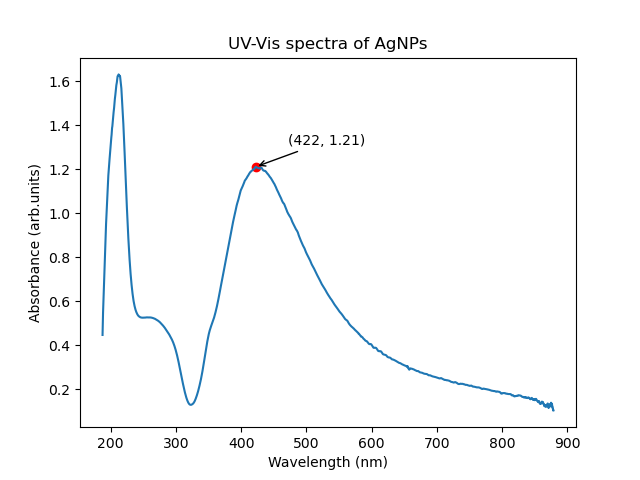
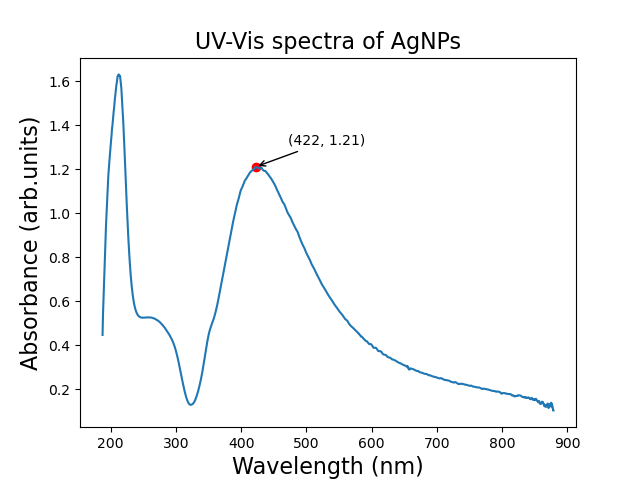
Mod

Changed region(s): [[0.2812, 0.0625, 0.7188, 0.125], [0.3438, 0.9375, 0.6562, 1.0], [0.0312, 0.25, 0.0625, 0.7812]]

diff --git a/E_SERS_UA_CRN_MSc_Thesis/DataProcessing/AgNPs_quantification@-0.6V.py b/E_SERS_UA_CRN_MSc_Thesis/DataProcessing/AgNPs_quantification@-0.6V.py
@@ -38,23 +38,33 @@ y = df_linear.drop([0])['1131.63641']
 
 slope, intercept, r_value, p_value, std_err = stats.linregress(x, y)
 
+df_all = pd.read_csv('../Data_csv/UA_quantification_all.csv')
+df_all = df_all[df_all.Potential == -0.6].reset_index(drop=True)
+df_normalised = df_all.iloc[:, 4:].copy()
+df_normalised = df_normalised.div(df_normalised['1362.89183'], axis=0)
+df_all = pd.concat([df_all['UA'], df_normalised['1131.63641']], axis=1)
+df_all = df_all[df_all.UA != 0]
+data_mean = df_all.groupby(['UA'])['1131.63641'].mean()
+data_std = df_all.groupby(['UA'])['1131.63641'].std()
+
 ax = plt.subplot()
+ax.set_title('UA + 0.1M NaF + 10uM R6G for AgNPs-APTES-FTO: -0.6V', pad=10)
+ax.set_title('Linear relationship: \n\ny = ' + str(format(slope, '.5f')) + 'x + ' + str(format(intercept, '.5f'))
+             + '\nR$^{2}$ = ' + str(format(r_value, '.5f')), loc='left', y=0.75, x=0.05)
+
 ax.set_xticks([1, 2, 3, 4, 6, 8, 10, 15])
 ax.set_xticklabels(['1', '2', '5', '10', '20', '50', '100', '200'])
-ax.set_title('UA + 0.1M NaF + 10uM R6G for AgNPs-APTES-FTO: -0.6V', pad=10)
-ax.set_title('Linear relationship: \n\ny = ' + str(format(slope, '.5f')) + 'x + '
-             + str(format(intercept, '.5f')) + '\nR$^{2}$ = ' + str(format(r_value, '.5f')),
-             loc='left', y=0.75, x=0.05, color='blue')
 ax.set_xlabel('UA Concentration ($\mu$M)')
 ax.set_ylabel('Peak Height After R6G Normalisation')
 
 x = [1, 2, 3, 4, 6, 8, 10, 15]
-ax.scatter(x, y, color='black')
+ax.scatter(x, y, color='blue')
+ax.errorbar(x, y, yerr=data_std, fmt='o', color='blue', capsize=3)
 
 linear_model = np.polyfit(x, y, 1)
 linear_model_fn = np.poly1d(linear_model)
 x_s = np.arange(1, 16)
-plt.plot(x_s, linear_model_fn(x_s), color='blue', linestyle='--')
+plt.plot(x_s, linear_model_fn(x_s), color='red', linestyle='--')
 
 plt.savefig('../Data_Fig/UA_quantification_2.png')
 plt.show()

diff --git a/Ag_Au@Ag_UV_Vis_plot/Ag_AuAg_UV_Vis_plot.py b/Ag_Au@Ag_UV_Vis_plot/Ag_AuAg_UV_Vis_plot.py
@@ -11,9 +11,9 @@ wavelen2, abs2 = Au_Ag_df[0], Au_Ag_df[1]
 
 # plot AgNP spectra
 plt.plot(wavelen1, abs1)
-plt.xlabel('Wavelength (nm)')
-plt.ylabel('Absorbance (arb.units)')
-plt.title('UV-Vis spectra of AgNPs')
+plt.xlabel('Wavelength (nm)', fontsize=16)
+plt.ylabel('Absorbance (arb.units)', fontsize=16)
+plt.title('UV-Vis spectra of AgNPs', fontsize=16)
 # find peak for AgNP
 index1 = argrelextrema(abs1.values, np.greater, order=50)[0][1]
 peak_x1 = wavelen1.iloc[index1]
@@ -27,9 +27,9 @@ plt.show()
 
 # plot Au@Ag spectra
 plt.plot(wavelen2, abs2)
-plt.xlabel('Wavelength (nm)')
-plt.ylabel('Absorbance (arb.units)')
-plt.title('UV-Vis spectra of Au@Ag')
+plt.xlabel('Wavelength (nm)', fontsize=16)
+plt.ylabel('Absorbance (arb.units)', fontsize=16)
+plt.title('UV-Vis spectra of Au@Ag', fontsize=16)
 index2 = argrelextrema(abs2.values, np.greater, order=50)[0][1]
 peak_x2 = wavelen1.iloc[index2]
 peak_y2 = abs2.iloc[index2]
